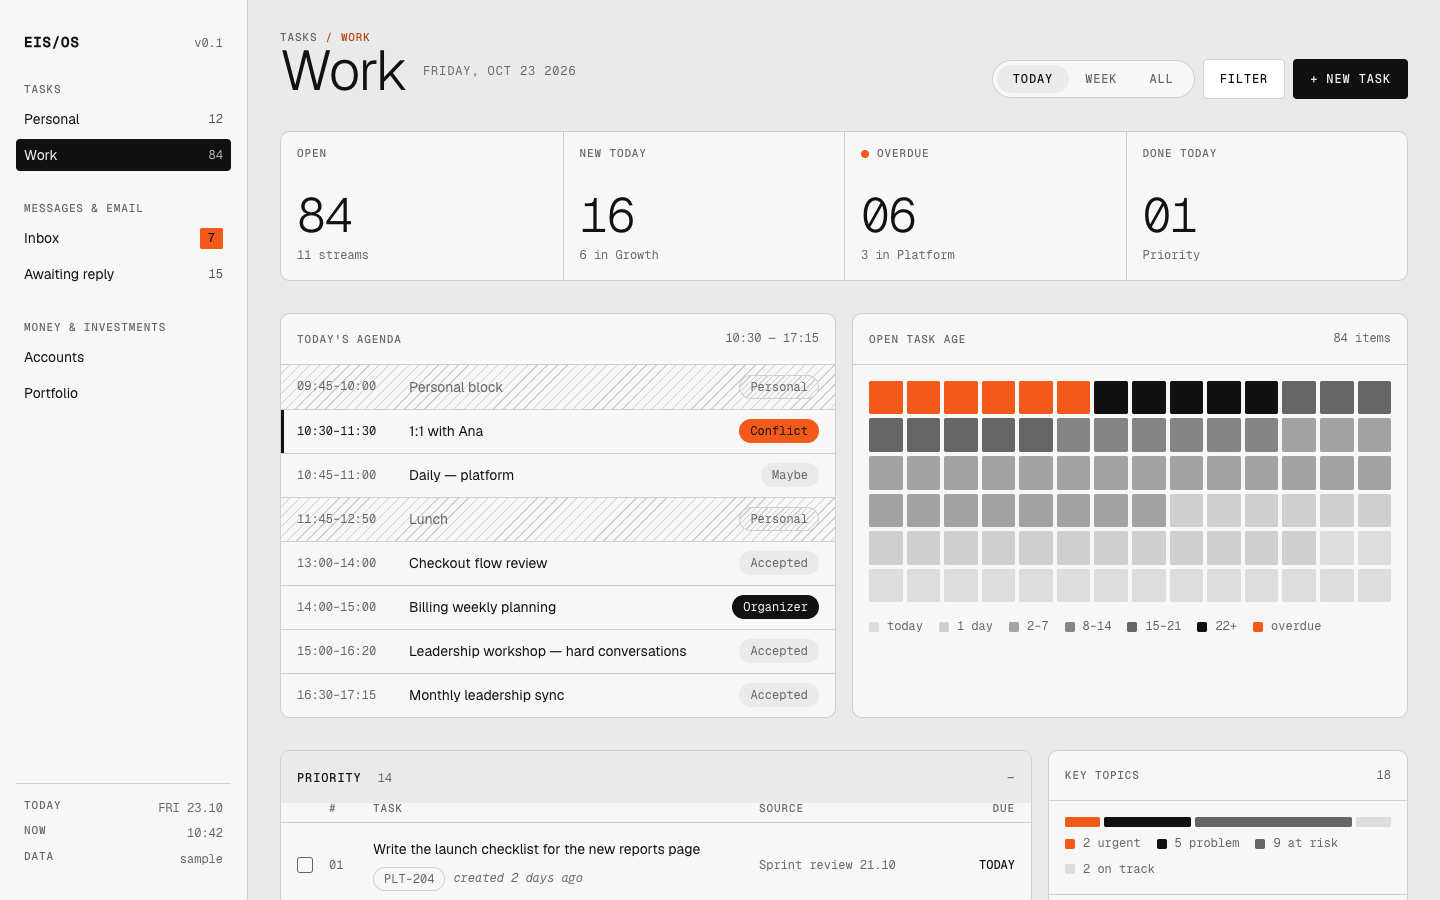
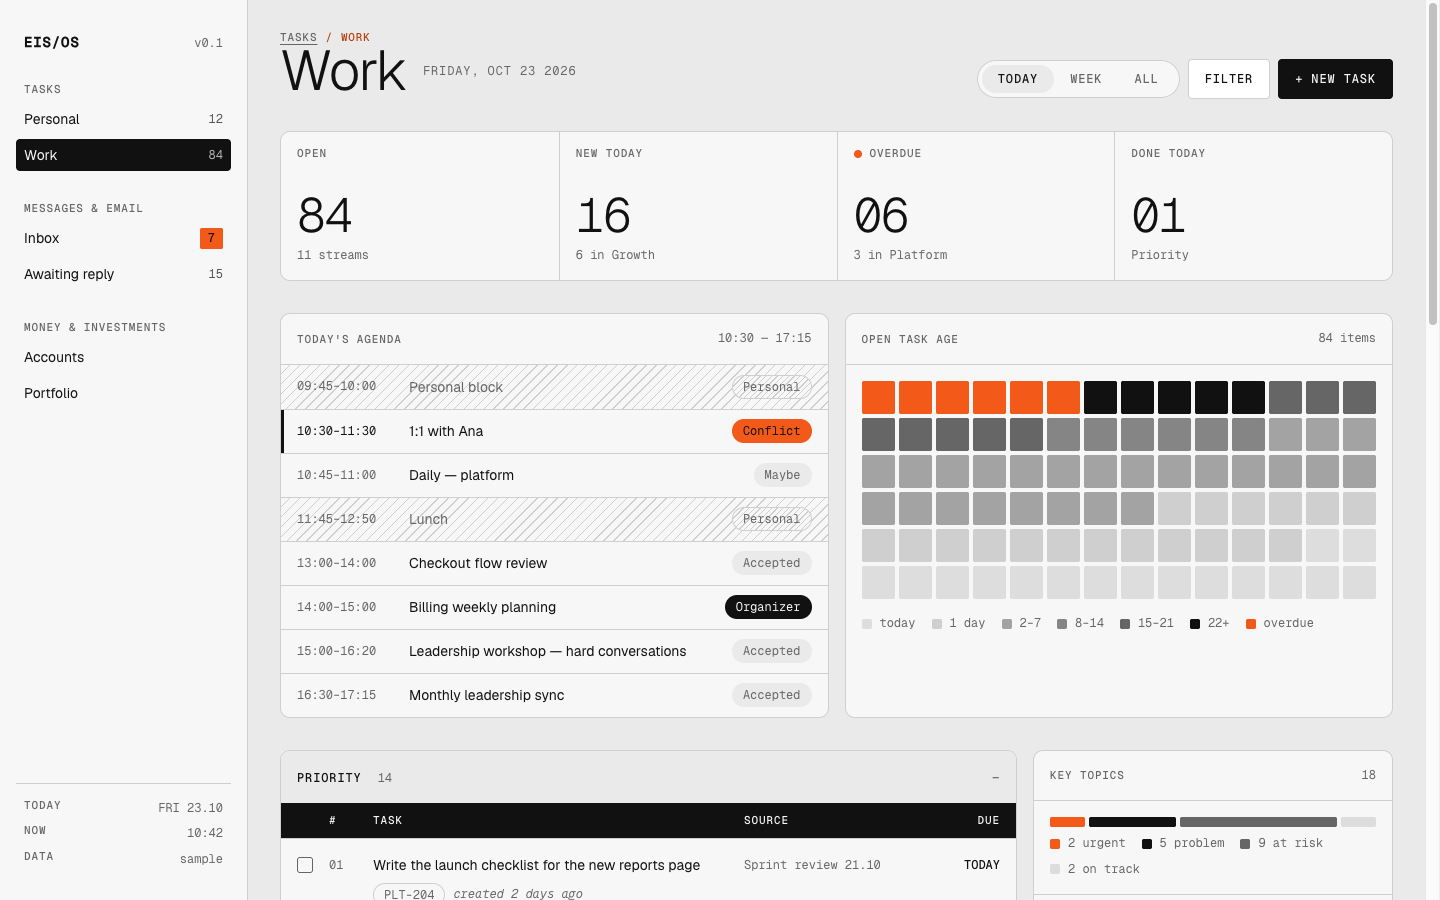
Table header in black; sm and lg sizes for chips and buttons; every link underlined with accent-ink hover; task table aligned to the top with a date column and a task title class

diff --git a/src/shared/css/elements.css b/src/shared/css/elements.css
@@ -4,7 +4,8 @@
    Load after shared/css/base.css.
    Rules: semantic HTML and native controls; every class starts with eis-;
    no raw colours, font sizes or spacing (all from tokens);
-   a variant changes colour only, through the local --bg / --fg / --bd / --glow. */
+   a variant changes colour only, through the local --bg / --fg / --bd / --glow;
+   a size (--sm, --lg) changes size only: height, padding, gap, font size. */
 
 /* ---------- panel ---------- */
 .eis-panel{background:var(--surface-panel);border:var(--border-width-100) solid var(--line);border-radius:var(--radius-200);overflow:hidden}
@@ -29,6 +30,8 @@
 .eis-button--success{--bg:var(--success);--fg:var(--success-on);--bd:var(--success);
   --bg-hover:color-mix(in srgb,var(--success) 85%,var(--surface-panel));--bd-hover:var(--bg-hover);--glow:var(--success)}
 .eis-button--ghost{--bg:transparent;--bd:transparent;--bg-hover:var(--surface-canvas);--bd-hover:transparent}
+.eis-button--sm{min-height:var(--space-300);padding:0 calc(var(--space-100) * 1.5);font-size:var(--font-size-100)}
+.eis-button--lg{min-height:calc(var(--space-300) * 1.5);padding:0 var(--space-300);font-size:var(--font-size-300)}
 .eis-button:disabled{opacity:.4;cursor:not-allowed}
 .eis-button:disabled:hover{background:var(--bg);border-color:var(--bd);box-shadow:none}
 .eis-button--ghost:hover{box-shadow:none}
@@ -39,6 +42,8 @@
   border:var(--border-width-100) solid var(--bd);border-radius:var(--radius-full);background:var(--bg);color:var(--fg);
   font-family:var(--font-family-mono);font-size:var(--font-size-200);font-weight:var(--font-weight-regular);
   line-height:var(--font-line-height-tight);white-space:nowrap;cursor:default}
+.eis-chip--sm{min-height:var(--space-200);padding:0 calc(var(--space-100) * .75);gap:calc(var(--space-100) / 2);font-size:var(--font-size-100)}
+.eis-chip--lg{min-height:var(--space-300);padding:0 calc(var(--space-100) * 1.5);gap:var(--space-100);font-size:var(--font-size-300)}
 .eis-chip--outline{--bg:transparent;--bd:var(--line)}
 .eis-chip--solid{--bg:var(--surface-inverse);--fg:var(--ink-inverse)}
 .eis-chip--accent{--bg:var(--accent);--fg:var(--accent-on)}
@@ -102,16 +107,14 @@
 
 /* ---------- table ---------- */
 .eis-table th,.eis-table td{text-align:left;vertical-align:middle;padding:var(--space-200);border-top:var(--border-width-100) solid var(--line)}
-.eis-table thead th{border-top:0;padding-block:var(--space-100);font-family:var(--type-label-font-family);font-size:var(--type-label-font-size);
-  font-weight:var(--type-label-font-weight);letter-spacing:var(--type-label-letter-spacing);text-transform:uppercase;color:var(--ink-muted)}
+.eis-table thead th{border-top:0;padding-block:calc(var(--space-100) * 1.5);background:var(--surface-inverse);font-family:var(--type-label-font-family);font-size:var(--type-label-font-size);
+  font-weight:var(--type-label-font-weight);letter-spacing:var(--type-label-letter-spacing);text-transform:uppercase;color:var(--ink-inverse)}
 .eis-table .eis-checkbox,.eis-table .eis-radio{margin-top:0;display:grid}
 .eis-table .eis-num{text-align:right;font-family:var(--font-family-mono);font-variant-numeric:tabular-nums}
 
 /* ---------- navigation bits ---------- */
 .eis-breadcrumb ol{display:flex;flex-wrap:wrap;gap:var(--space-100)}
 .eis-breadcrumb li + li::before{content:"/";margin-right:var(--space-100)}
-.eis-breadcrumb a{text-decoration:none}
-.eis-breadcrumb a:hover{color:var(--ink)}
 .eis-breadcrumb [aria-current]{color:var(--accent-ink)}
 
 /* ---------- disclosure ---------- */

diff --git a/site/elements.html b/site/elements.html
@@ -101,7 +101,14 @@ height="0" width="0" style="display:none;visibility:hidden"></iframe></noscript>
         <button class="eis-button eis-button--black" type="button">+ New task</button>
         <a class="eis-button" href="#buttons">Open report →</a>
       </div>
-      <p class="eis-note"><code>.eis-button</code> (white) + <code>--black</code> · <code>--ghost</code> · <code>--accent</code> · <code>--success</code>. Variants change colour only. One <code>--black</code> per view; <code>--accent</code> only for the action that is itself the accent (record, go live).</p>
+      <div class="eis-demo">
+        <button class="eis-button eis-button--sm" type="button">Small</button>
+        <button class="eis-button" type="button">Medium</button>
+        <button class="eis-button eis-button--lg" type="button">Large</button>
+        <button class="eis-button eis-button--black eis-button--sm" type="button">+ Note</button>
+        <button class="eis-button eis-button--black eis-button--lg" type="button">Start</button>
+      </div>
+      <p class="eis-note"><code>.eis-button</code> (white) + <code>--black</code> · <code>--ghost</code> · <code>--accent</code> · <code>--success</code>. Variants change colour only. Sizes: <code>--sm</code> · default · <code>--lg</code>. One <code>--black</code> per view; <code>--accent</code> only for the action that is itself the accent (record, go live).</p>
     </div>
   </section>
 
@@ -127,7 +134,14 @@ height="0" width="0" style="display:none;visibility:hidden"></iframe></noscript>
           <span class="eis-chip eis-chip--outline">PLT-204</span>
           <span class="eis-chip eis-chip--outline">Billing</span>
         </div>
-        <p class="eis-note"><code>.eis-chip</code> + <code>--outline</code> · <code>--solid</code> · <code>--accent</code> · <code>--success</code> · <code>--hatch</code> · <code>--dot</code>. Hatch marks what no longer counts (cancelled, blocked). Accent is the only chip with colour.</p>
+        <div class="eis-demo">
+          <span class="eis-chip eis-chip--sm eis-chip--solid">Small</span>
+          <span class="eis-chip eis-chip--solid">Medium</span>
+          <span class="eis-chip eis-chip--lg eis-chip--solid">Large</span>
+          <span class="eis-chip eis-chip--sm eis-chip--accent eis-chip--dot">Urgent</span>
+          <span class="eis-chip eis-chip--lg eis-chip--outline">PLT-204</span>
+        </div>
+        <p class="eis-note"><code>.eis-chip</code> + <code>--outline</code> · <code>--solid</code> · <code>--accent</code> · <code>--success</code> · <code>--hatch</code> · <code>--dot</code>. Sizes: <code>--sm</code> · default · <code>--lg</code>. Hatch marks what no longer counts (cancelled, blocked). Accent is the only chip with colour.</p>
       </div>
       <div class="eis-panel">
         <h3 class="eis-label">Chip vs button</h3>
@@ -275,7 +289,7 @@ height="0" width="0" style="display:none;visibility:hidden"></iframe></noscript>
   <section class="eis-web-doc" id="nav" aria-labelledby="nav-h">
     <header>
       <h2 id="nav-h"><small class="eis-label">07</small>Navigation</h2>
-      <p>Breadcrumb in label style, current page in accent ink. Text links underline with a hairline that darkens on hover.</p>
+      <p>Breadcrumb in label style, current page in accent ink. Every link is underlined and turns accent ink on hover.</p>
     </header>
     <div class="eis-panel">
       <div class="eis-demo">

diff --git a/src/app/css/components.css b/src/app/css/components.css
@@ -6,7 +6,7 @@
    an element or another scope. scripts/check-css.py enforces this. */
 
 .eis-app-shell{display:grid;grid-template-columns:var(--app-size-sidebar) minmax(0,1fr);min-height:100vh}
-.eis-app-shell a{text-decoration:none}
+.eis-app-brand a,.eis-app-nav a{text-decoration:none}
 /* ---------- sidebar ---------- */
 .eis-app-sidebar{background:var(--surface-panel);border-right:var(--border-width-100) solid var(--line);
   display:flex;flex-direction:column;gap:var(--space-300);padding:var(--space-300) var(--space-200);
@@ -92,14 +92,18 @@
 .eis-app-tasks .eis-table .eis-app-col-check{width:48px}
 .eis-app-tasks .eis-table .eis-app-col-idx{width:44px}
 .eis-app-tasks .eis-table .eis-app-col-src{width:184px}
-.eis-app-tasks .eis-table .eis-app-col-due{width:88px}
-.eis-app-tasks .eis-table th{text-align:left;padding:0 var(--space-200) var(--space-100) 0;font-weight:inherit}
+.eis-app-tasks .eis-table .eis-app-col-due,.eis-app-tasks .eis-table .eis-app-col-date{width:88px}
+.eis-app-tasks .eis-table th{text-align:left;padding-inline:0 var(--space-200);font-weight:inherit}
 .eis-app-tasks .eis-table th:first-child,.eis-app-tasks .eis-table td:first-child{padding-left:var(--space-200)}
 .eis-app-tasks .eis-table th:last-child,.eis-app-tasks .eis-table td:last-child{padding-right:var(--space-200);text-align:right}
-.eis-app-tasks .eis-table td{vertical-align:middle;padding:var(--space-200) var(--space-200) var(--space-200) 0;border-top:var(--border-width-100) solid var(--line)}
+/* rows grow with notes: every cell aligns to the top, the checkbox to the first text line */
+.eis-app-tasks .eis-table td{vertical-align:top;padding:var(--space-200) var(--space-200) var(--space-200) 0;border-top:var(--border-width-100) solid var(--line)}
 .eis-app-tasks .eis-table td.eis-mono{line-height:20px;white-space:nowrap;overflow:hidden;text-overflow:ellipsis}
-.eis-app-tasks .eis-table label{display:block;line-height:20px;cursor:pointer}
-.eis-app-tasks .eis-table tr:has(.eis-checkbox:checked) label{color:var(--ink-muted);text-decoration:line-through}
+.eis-app-tasks .eis-table .eis-checkbox{margin-top:2px}
+.eis-app-tasks .eis-table label,.eis-app-task-title{display:block;line-height:20px}
+.eis-app-tasks .eis-table label{cursor:pointer}
+.eis-app-task-title .eis-chip{vertical-align:text-bottom;margin-right:var(--space-100)}
+.eis-app-tasks .eis-table tr:has(.eis-checkbox:checked) :is(label,.eis-app-task-title){color:var(--ink-muted);text-decoration:line-through}
 .eis-app-meta{display:flex;flex-wrap:wrap;align-items:center;gap:var(--space-100);margin-top:var(--space-100)}
 .eis-app-meta em{font-family:var(--font-family-mono);font-size:var(--font-size-200);color:var(--ink-muted)}
 .eis-app-due--over,.eis-app-meta .eis-app-over,.eis-app-over{color:var(--accent-ink);font-weight:var(--font-weight-medium)}
@@ -151,6 +155,7 @@
   .eis-app-tasks .eis-table td:nth-child(3){grid-column:2;grid-row:1}
   .eis-app-tasks .eis-table td:nth-child(4){grid-column:2;grid-row:2;margin-top:var(--space-100)}
   .eis-app-tasks .eis-table td:nth-child(5){grid-column:3;grid-row:1}
+  .eis-app-tasks .eis-table td:nth-child(6){grid-column:3;grid-row:2;margin-top:var(--space-100)}
   .eis-app-agenda li{grid-template-columns:minmax(0,1fr) auto;row-gap:calc(var(--space-100) / 2)}
   .eis-app-agenda time{grid-column:1/-1}
   .eis-app-cells{grid-template-columns:repeat(12,1fr)}

diff --git a/src/shared/css/base.css b/src/shared/css/base.css
@@ -7,7 +7,6 @@
 *{margin:0;padding:0}
 html{background:var(--surface-canvas);color:var(--ink);-webkit-font-smoothing:antialiased}
 body{font-family:var(--type-body-font-family);font-size:var(--type-body-font-size);line-height:var(--type-body-line-height)}
-a{color:inherit}
 ul,ol{list-style:none}
 table{border-collapse:collapse;width:100%}
 th,td{vertical-align:middle}
@@ -21,7 +20,13 @@ code{font-family:var(--font-family-mono);font-size:var(--font-size-200)}
   letter-spacing:var(--type-label-letter-spacing);line-height:var(--type-label-line-height);text-transform:uppercase;color:var(--ink-muted)}
 .eis-mono{font-family:var(--type-mono-font-family);font-size:var(--type-mono-font-size);color:var(--ink-muted);font-variant-numeric:tabular-nums}
 
-/* ---------- link ---------- */
-.eis-link{color:var(--ink);text-decoration:underline;text-decoration-color:var(--line);text-underline-offset:3px;text-decoration-thickness:var(--border-width-100)}
-.eis-link:hover{text-decoration-color:var(--ink)}
+/* ---------- link ----------
+   Every link is underlined and turns --accent-ink on hover (5.3:1 on --surface-panel,
+   4.7:1 on --surface-canvas; --accent itself fails as text). :where() keeps the
+   specificity at zero, so buttons and navigation components set their own look. */
+:where(a){color:inherit;text-decoration:underline;text-decoration-thickness:var(--border-width-100);text-underline-offset:3px;
+  transition:color .12s linear,text-decoration-color .12s linear}
+:where(a):hover{color:var(--accent-ink)}
+.eis-link{color:var(--ink);text-decoration-color:var(--line)}
+.eis-link:hover{color:var(--accent-ink);text-decoration-color:var(--accent-ink)}
 

diff --git a/docs/manual/elements.md b/docs/manual/elements.md
@@ -7,6 +7,7 @@ Every basic element: when to use it, the HTML to copy, variants, and what is for
 - MUST use the native HTML element that carries the meaning. A `div` or `span` never pretends to be a button, checkbox, table, list or form.
 - Every class starts with `eis-`. Naming: block `eis-panel`, part `eis-panel__head`, variant `eis-chip--accent`, state `eis-is-accent`.
 - A **variant changes colour only** (through the local `--bg`, `--fg`, `--bd`, `--glow`). Never size, padding, radius, structure or behaviour.
+- A **size** (`--sm`, `--lg`) changes size only: height, padding, gap and font size, all from the spacing and type tokens. Never colour. Combine one size with any variant. No size class = medium.
 - A piece MUST NOT restyle an element from `elements.css`. If it needs something different, change the element in the system (and on `elements.html`).
 - Every control is keyboard-reachable and has a visible focus (`:focus-visible`, 2px `--ink` outline — already global).
 
@@ -71,6 +72,12 @@ Naming: the orange is **accent** (`--accent`, `eis-button--accent`, `eis-chip--a
 - Disabled: the `disabled` attribute, never a class.
 - Order in a group: secondary/ghost first, the `--black` button last (rightmost).
 
+| Size | Height | Padding | Font | Use for |
+|---|---|---|---|---|
+| `--sm` | `--space-300` (32px) | 1.5 × `--space-100` | `--font-size-100` | Actions inside a row, a table or a dense toolbar. |
+| *(default)* | 40px | `--space-200` | `--font-size-200` | Forms and page toolbars. |
+| `--lg` | 1.5 × `--space-300` (48px) | `--space-300` | `--font-size-300` | The single main action of an empty state or landing view. |
+
 ## Chip
 
 ```html
@@ -91,6 +98,12 @@ Naming: the orange is **accent** (`--accent`, `eis-button--accent`, `eis-chip--a
 | `--success` | A positive state: done, sent, saved. |
 | `--hatch` | What no longer counts: cancelled, blocked. |
 | `--dot` | Adds a status dot. Combine it with any variant. |
+
+| Size | Height | Padding | Font | Use for |
+|---|---|---|---|---|
+| `--sm` | `--space-200` (16px) | 0.75 × `--space-100` | `--font-size-100` | Inline with a line of text: a task title, a table cell. |
+| *(default)* | 24px | 10px | `--font-size-200` | Meta rows, lists, panel heads. |
+| `--lg` | `--space-300` (32px) | 1.5 × `--space-100` | `--font-size-300` | A status that leads a section or a page head. |
 
 - Text in sentence case (`Overdue`, not `OVERDUE`).
 - Never wrap a chip in `<a>` or `<button>`.
@@ -198,6 +211,7 @@ Naming: the orange is **accent** (`--accent`, `eis-button--accent`, `eis-chip--a
 - Every table has a `<caption>` (visually hidden if the panel already has a title).
 - Cells are vertically centred (`th`, `td`: `vertical-align: middle`). Don't override.
 - Numbers: `.eis-num` (mono, tabular, right-aligned), including the header cell.
+- Header row (`thead th`): `--surface-inverse` background, `--ink-inverse` text, label type, inner padding. A scope may change the inline padding of the header to align it with its cells. It never changes the colours.
 - Rows separated by `--line`. No zebra stripes, no vertical lines.
 - On narrow screens a table MAY reflow into cards with CSS (`display:block/grid` on `tr`), keeping the HTML a table. If it can't reflow, wrap it in a horizontally scrollable container — the page itself MUST NOT scroll sideways.
 
@@ -255,7 +269,10 @@ Naming: the orange is **accent** (`--accent`, `eis-button--accent`, `eis-chip--a
 ```
 
 - Breadcrumb is `<nav>` + `<ol>`. The current item has `aria-current="page"` and shows in `--accent-ink`.
-- Links inside text use `.eis-link` (hairline underline).
+- Every `<a>` is underlined and turns `--accent-ink` on hover. This is the base style: you get it with no class. Never remove the underline from a link in text.
+- `.eis-link` makes a link in running text quieter: `--ink` text with a `--line` underline. On hover the text and the underline turn `--accent-ink`.
+- Use `--accent-ink`, not `--accent`, for link text: `--accent` fails contrast as text (3.1:1 on `--surface-panel`).
+- Exceptions, set by the component: `.eis-button` links look like buttons, and navigation menus (`.eis-app-nav`, the web header and doc nav) have no underline because the whole item is the target.
 
 ## Lists and avatar
 

diff --git a/AGENTS.md b/AGENTS.md
@@ -58,7 +58,7 @@ A project needs `src/shared/` and one scope. `site/` and `docs/` document the sy
 - Every class starts with `eis-`. Scope classes start with `eis-<scope>-` and live only in that scope. Scopes never use each other.
 - No raw values in CSS. All values come from the tokens.
 - A piece does not restyle a basic element. If it needs a change, change the element in the system.
-- A variant changes colour only.
+- A variant changes colour only. A size (`--sm`, `--lg`) changes size only, from the spacing and type tokens.
 - Examples use fictional data only.
 - No frameworks (React, Tailwind and similar).
 - Show a visual decision in HTML before it becomes a token.
